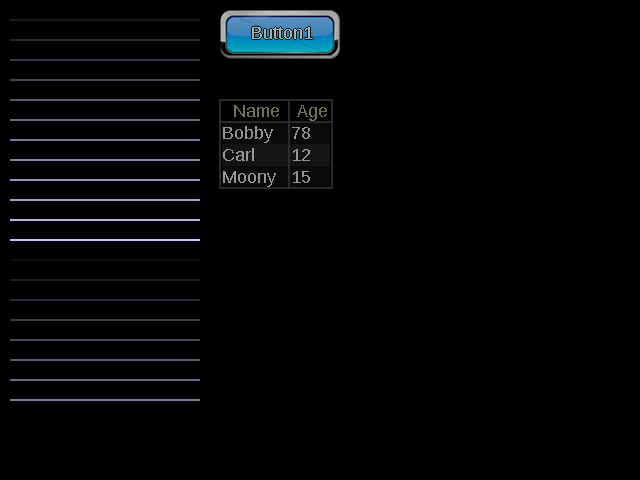
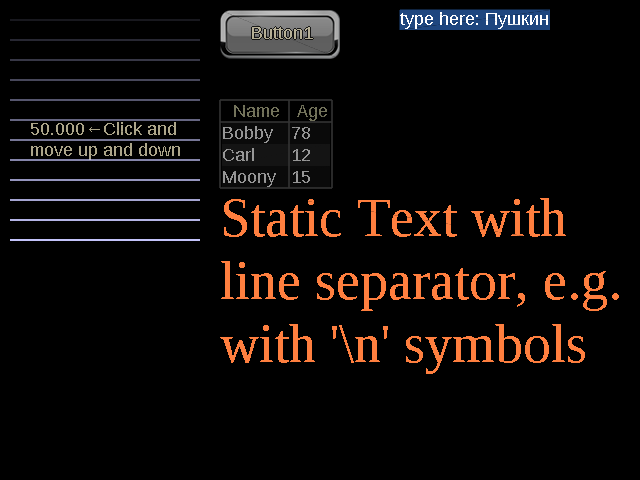
- Улучшена работа glwidgets.Entry - Добавлены примеры использоваия glwidgets.Entry,   glwidgets.StaticText, glwidgets.TextRegulator   и glwidgets.GlFont - Обновлён снимок экрана

diff --git a/glwidgets.py b/glwidgets.py
@@ -366,8 +366,8 @@ class Entry(GlWidget):
                  size=(150, DEFAULT_FONT_SIZE),
                  font_name=DEFAULT_FONT_FACE,
                  font_size=DEFAULT_FONT_SIZE,
-                 text_color=(255, 255, 255, 127),
-                 bg_color=(255, 127, 127, 255)):
+                 text_color=(255, 255, 255, 255),
+                 bg_color=(30, 70, 127, 255)):
         assert type(gda) is gtk.DrawingArea
         assert type(pos) is tuple
         assert l_len(pos) == 2
